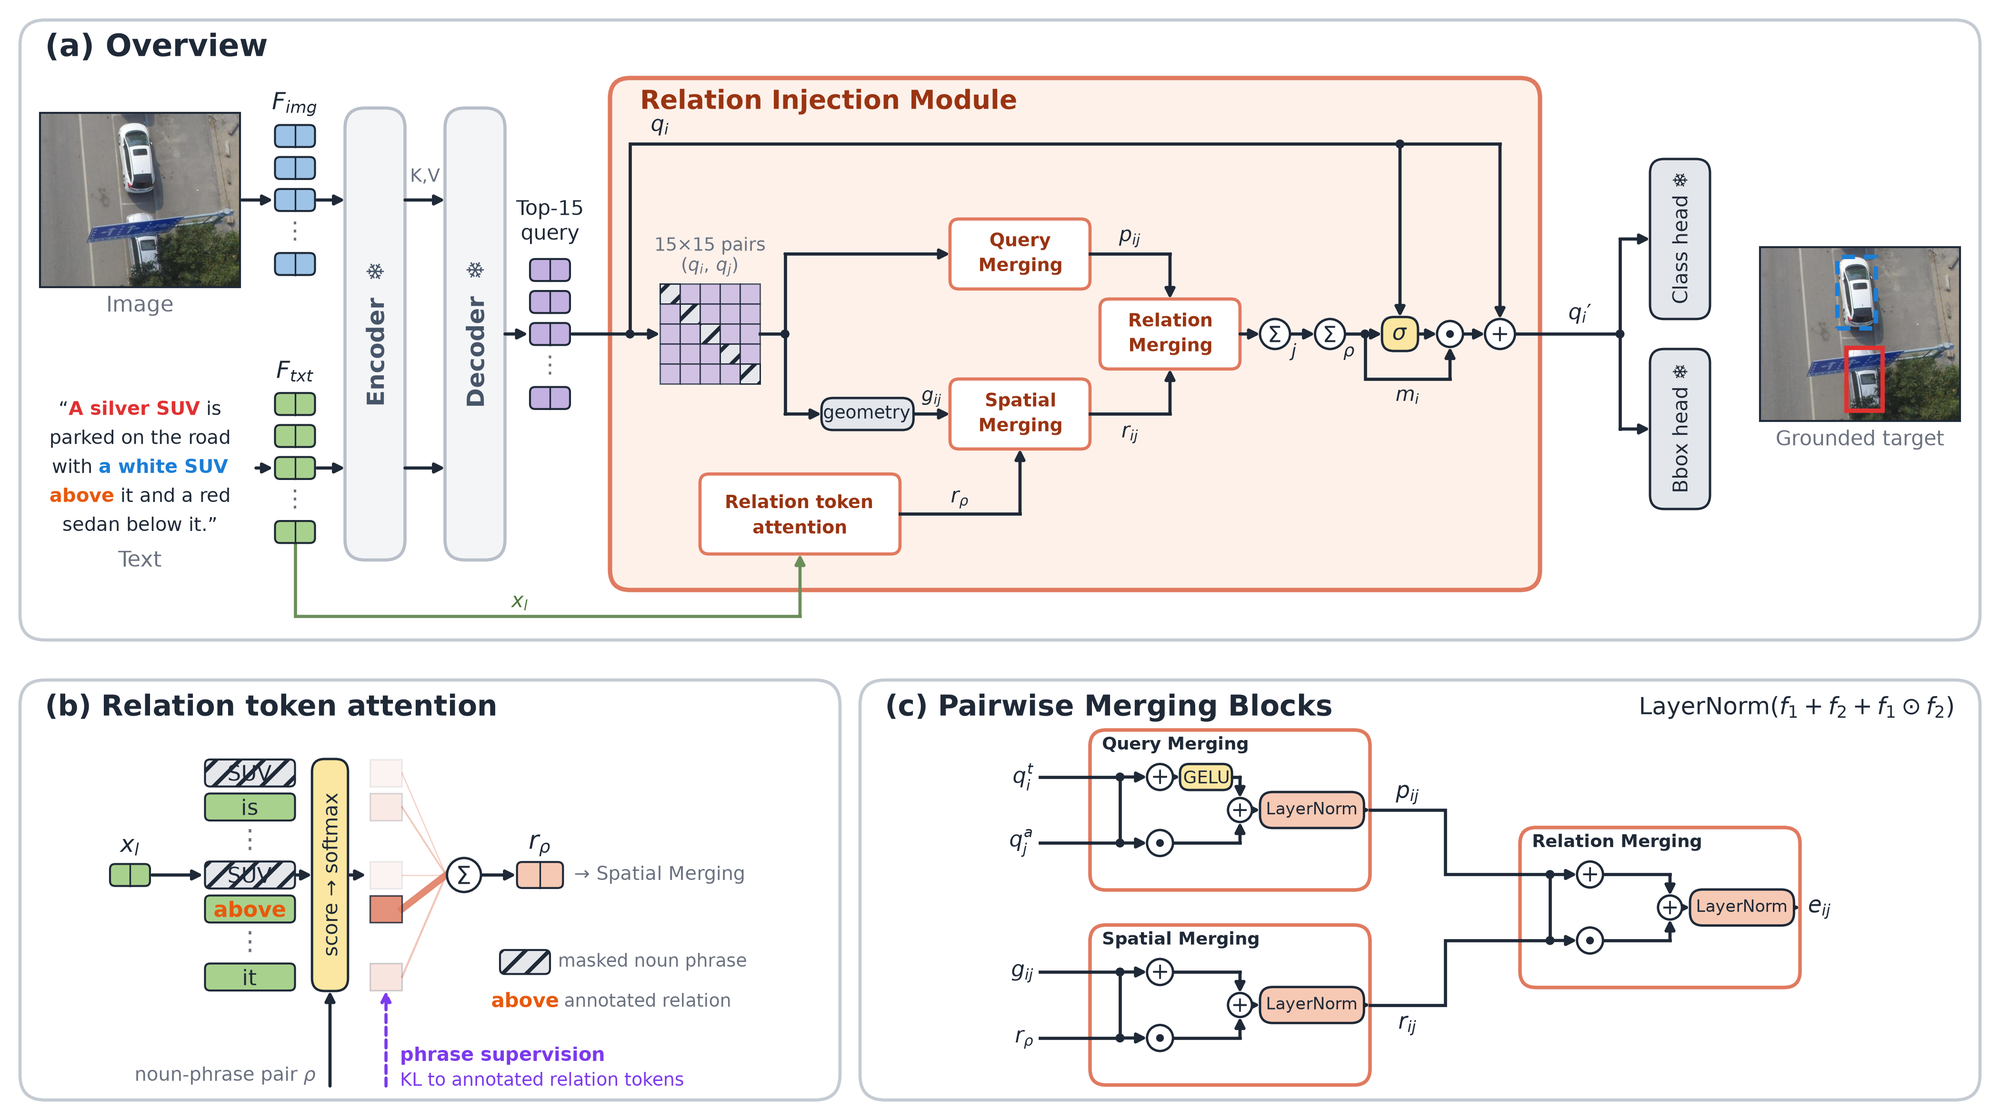
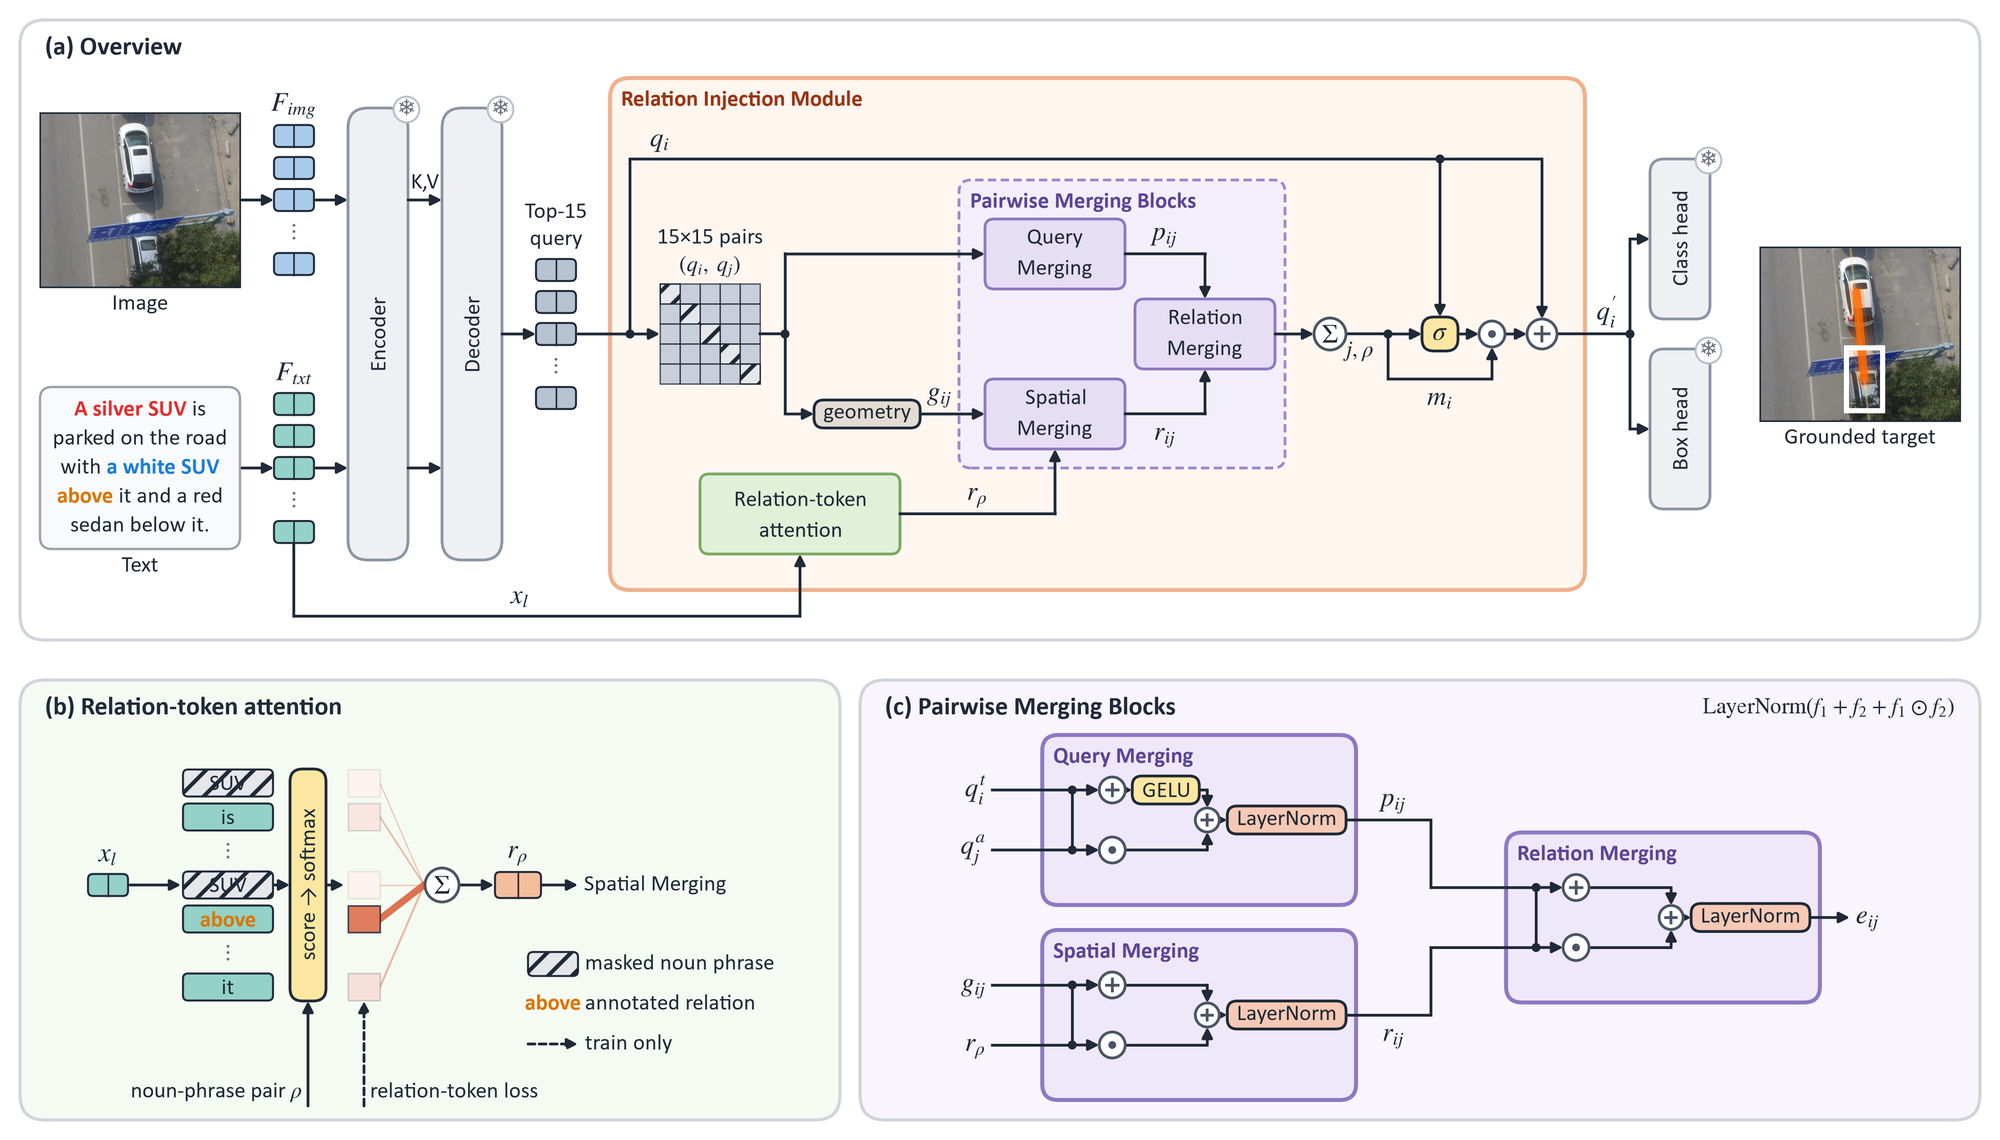
update README.md

Changed region(s): [[0.0, 0.0625, 0.992, 0.9688], [0.0, 0.0312, 0.155, 0.0625], [0.961, 0.5312, 0.992, 0.5625]]

diff --git a/README.md b/README.md
@@ -4,15 +4,17 @@
 
 [![DOI](https://zenodo.org/badge/DOI/10.5281/zenodo.23960807.svg)](https://doi.org/10.5281/zenodo.23960807)
 
+**Paper coming soon**
+
 </div>
 
-This repository contains the code of Pairception for visual grounding in UAV images. A link to the paper will be
-added after publication. Given a UAV image and an expression such as "the red car to the left of the blue bus", the
-task is to find the one object the expression refers to. For this task, we keep the released
-[AerialVG](https://github.com/Ideal-ljl/AerialVG) detector (ICCV 2025) frozen and train only a **Relation Injection
-Module** of 461,955 parameters. For the 15 candidate queries with the highest scores, the module compares every ordered
-pair of candidates with the noun phrases and the relation phrase of the expression, and adds the resulting relational
-evidence to each query. The frozen bbox and class heads then place and score the updated queries again.
+This repository contains the code of Pairception for visual grounding in UAV images. Given a UAV image and an
+expression such as "the red car to the left of the blue bus", the task is to find the one object the expression refers
+to. For this task, we keep the released [AerialVG](https://github.com/Ideal-ljl/AerialVG) detector (ICCV 2025) frozen
+and train only a **Relation Injection Module** of 461,955 parameters. For the 15 candidate queries with the highest
+scores, the module compares every ordered pair of candidates with the noun phrases and the relation phrase of the
+expression, and adds the resulting relational evidence to each query. The frozen box and class heads then place and
+score the updated queries again.
 
 <p align="center"><img src="assets/pairception.png" alt="Architecture of Pairception" width="100%"></p>
 
@@ -27,19 +29,23 @@ The Pairwise Merging Blocks, the relation-token attention and the rest of the mo
 AerialVG test split (all 4,723 expressions), in %. Top-k accuracy counts an expression as correct when one of the k
 highest-scoring boxes overlaps the target box with IoU ≥ 0.5, and mIoU is the mean IoU of the highest-scoring box.
 AerialVG is the released model with its relation module. AerialVG w/o relation module is the frozen detector that
-Pairception updates, ranked by its own scores over its 15 highest-scoring candidates.
+Pairception updates, ranked by its own scores over its 15 highest-scoring candidates. The Grounding DINO and GrabVG
+rows are the results reported in the [AerialVG paper](https://arxiv.org/abs/2504.07836) and in
+[GrabVG](https://arxiv.org/abs/2608.18996), and a dash marks a value that is not reported.
 
 | Model | Top-1 | Top-5 | Top-15 | mIoU |
 |---|---:|---:|---:|---:|
+| Grounding DINO | 29.36 | 78.87 | – | – |
 | AerialVG | 49.93 | 87.36 | 96.93 | 45.10 |
 | AerialVG w/o relation module | 48.51 | 86.58 | 96.93 | 43.85 |
+| GrabVG | 67.31 | 89.43 | – | – |
 | Pairception ([checkpoint](https://github.com/whsihaun/pairception/releases/tag/v1.0)) | 74.83 | 94.03 | 96.97 | 67.38 |
 
-The commands under [Evaluate](#evaluate) reproduce these rows with the CUDA kernel of deformable attention, and the
-Pairception row is the released checkpoint, trained with seed 42. With this kernel, Pairception trained with seeds 42,
-1 and 2 reaches a Top-1 of 74.83, 74.25 and 73.81 (mean 74.30). The paper measures the two AerialVG rows with the
-PyTorch implementation of deformable attention instead of this kernel and reports a Top-1 of 50.60 and 49.67 and a
-Top-5 of 87.91 and 87.59 for them. The two implementations round differently and can therefore reorder candidates
+The commands under [Evaluate](#evaluate) reproduce the other three rows with the CUDA kernel of deformable attention,
+and the Pairception row is the released checkpoint, trained with seed 42. With this kernel, Pairception trained with
+seeds 42, 1 and 2 reaches a Top-1 of 74.83, 74.25 and 73.81 (mean 74.30). The paper measures the two AerialVG rows
+with the PyTorch implementation of deformable attention instead of this kernel and reports a Top-1 of 50.60 and 49.67
+and a Top-5 of 87.91 and 87.59 for them. The two implementations round differently and can therefore reorder candidates
 whose scores are nearly equal.
 
 ## Setup
@@ -73,9 +79,9 @@ bash scripts/evaluate.sh
 ```
 
 The first script downloads the released Pairception checkpoint, trained with seed 42 (1.7 MB), into `checkpoints/`.
-The second script evaluates the three models of the table on the test split on GPU 0, which takes about 10 minutes per
-model. Each evaluation prints Top-1, Top-5, Top-15 and mIoU on one line and writes them to `outputs/`. One model at a
-time:
+The second script evaluates the two AerialVG models and Pairception on the test split on GPU 0, which takes about 10
+minutes per model. Each evaluation prints Top-1, Top-5, Top-15 and mIoU on one line and writes them to `outputs/`.
+One model at a time:
 
 ```bash
 python -m pairception.evaluate --model pairception
